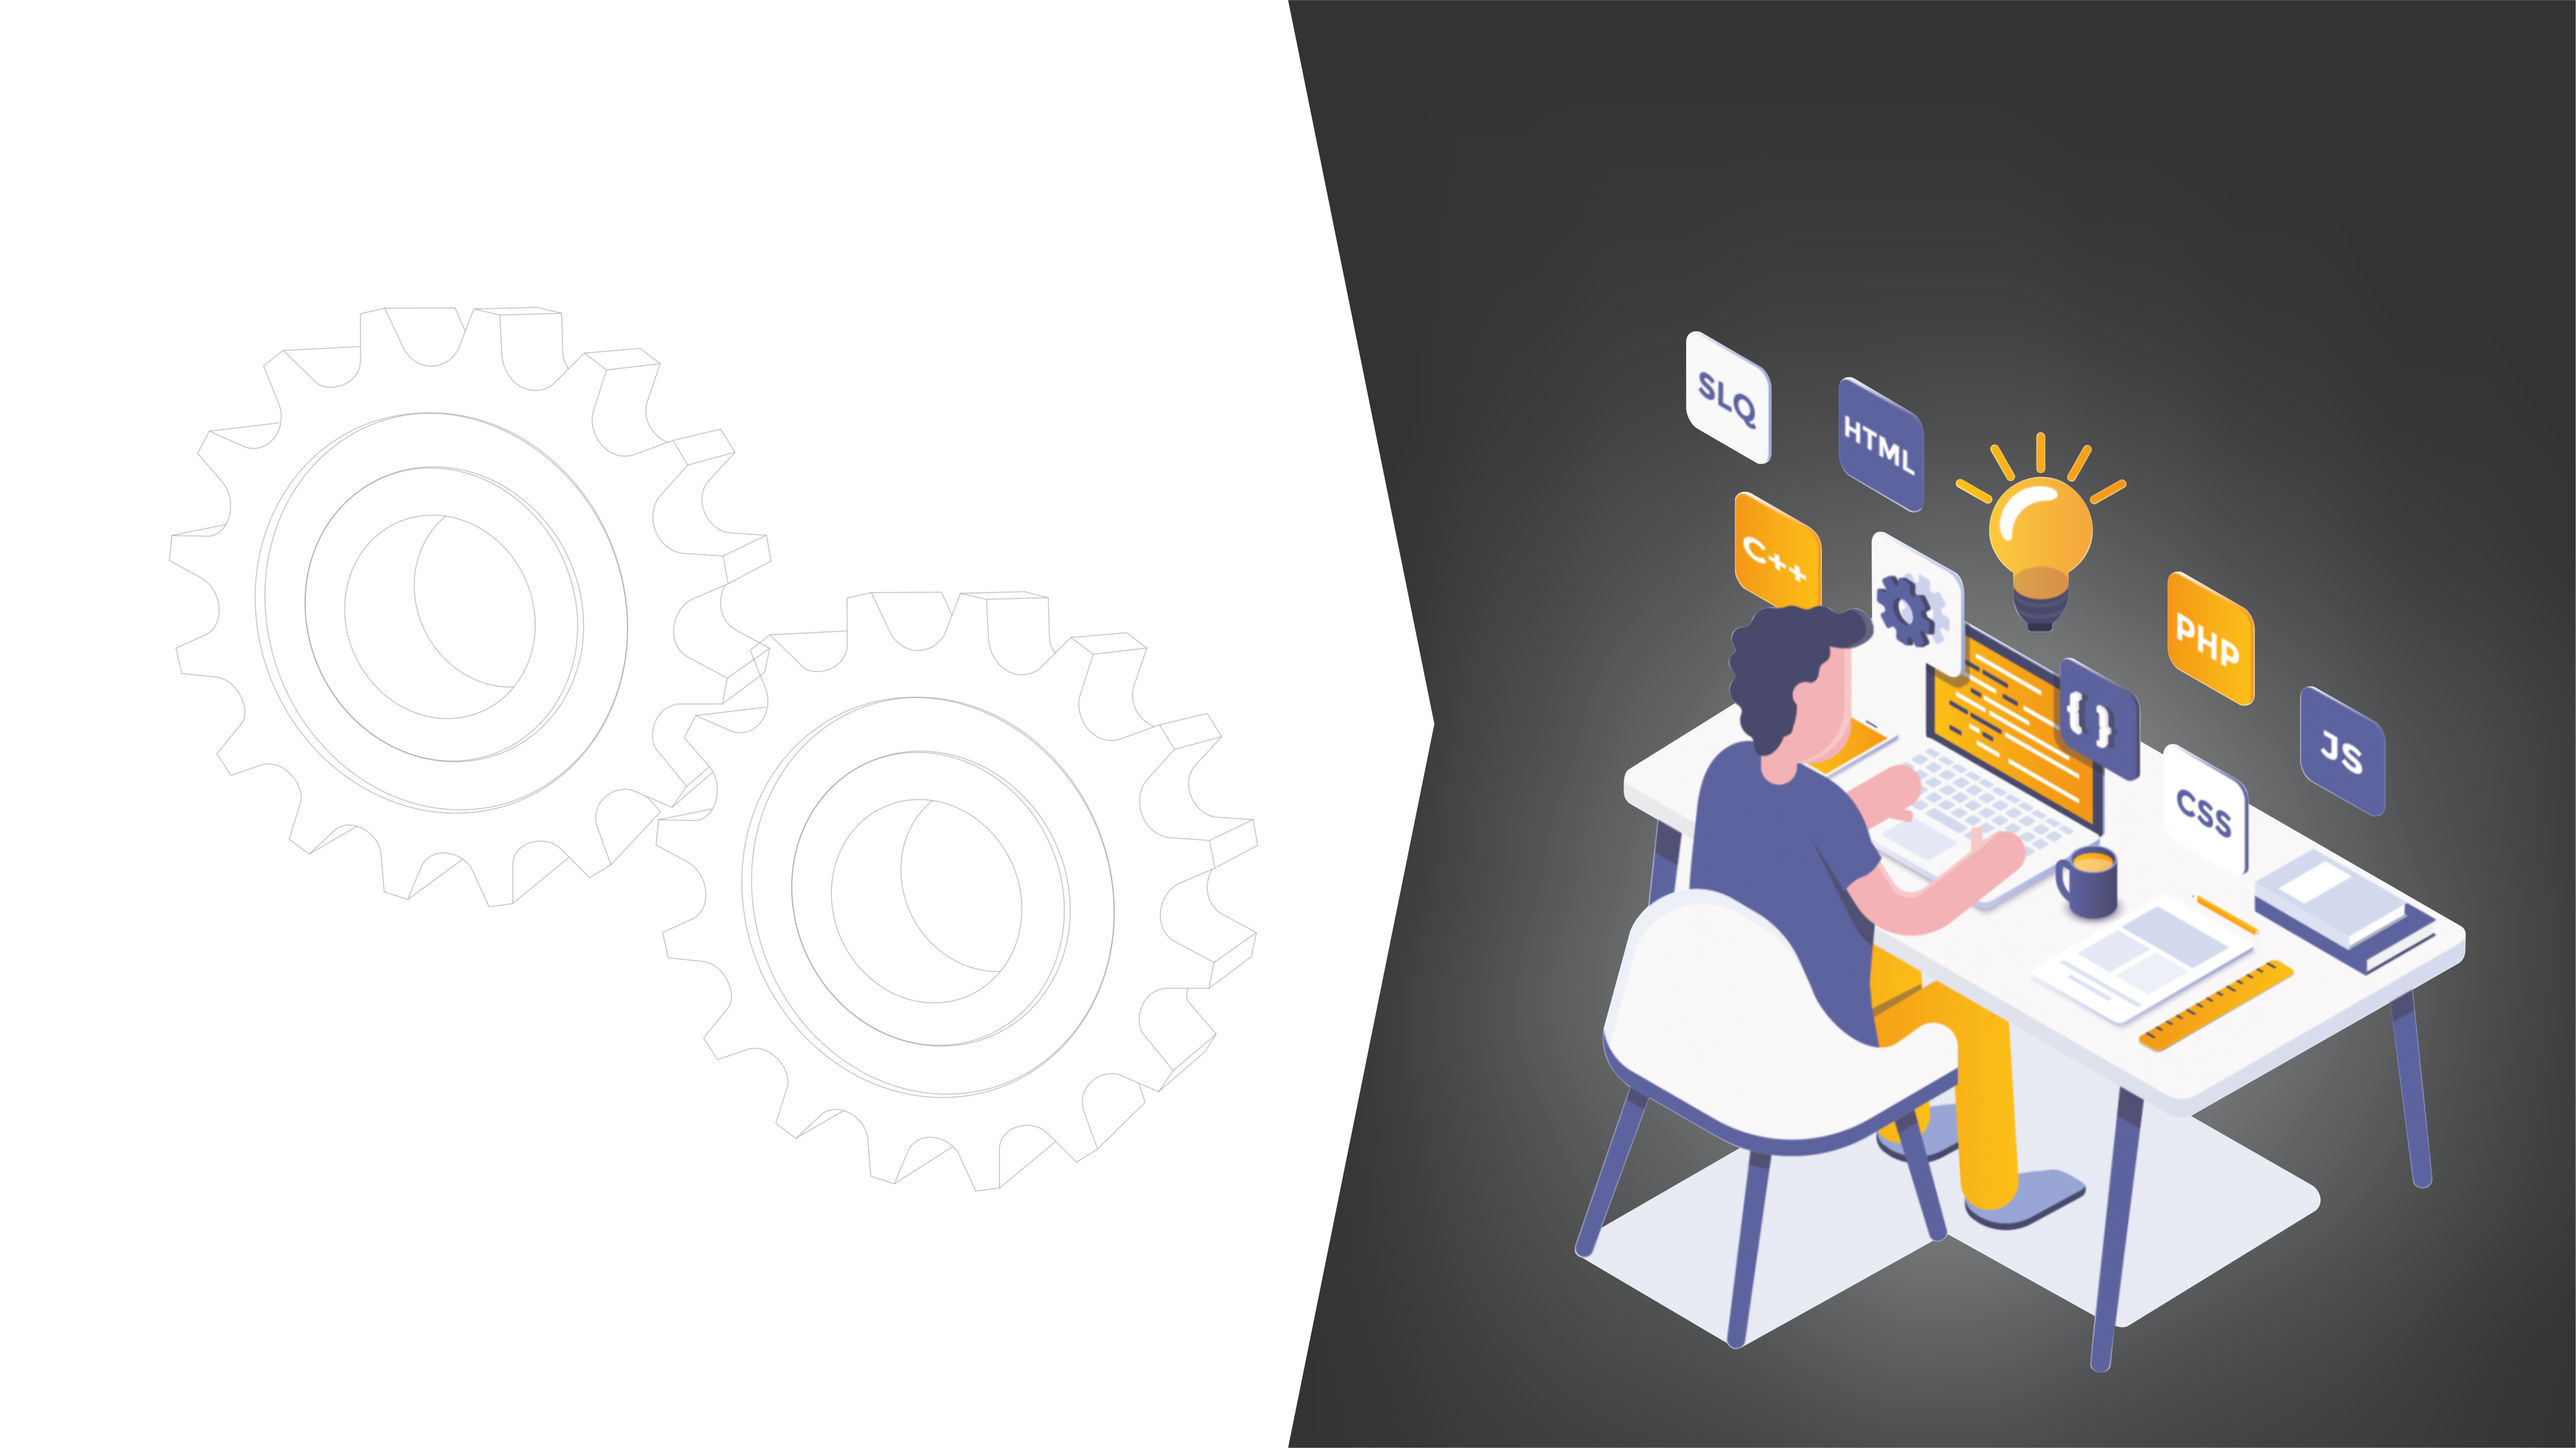
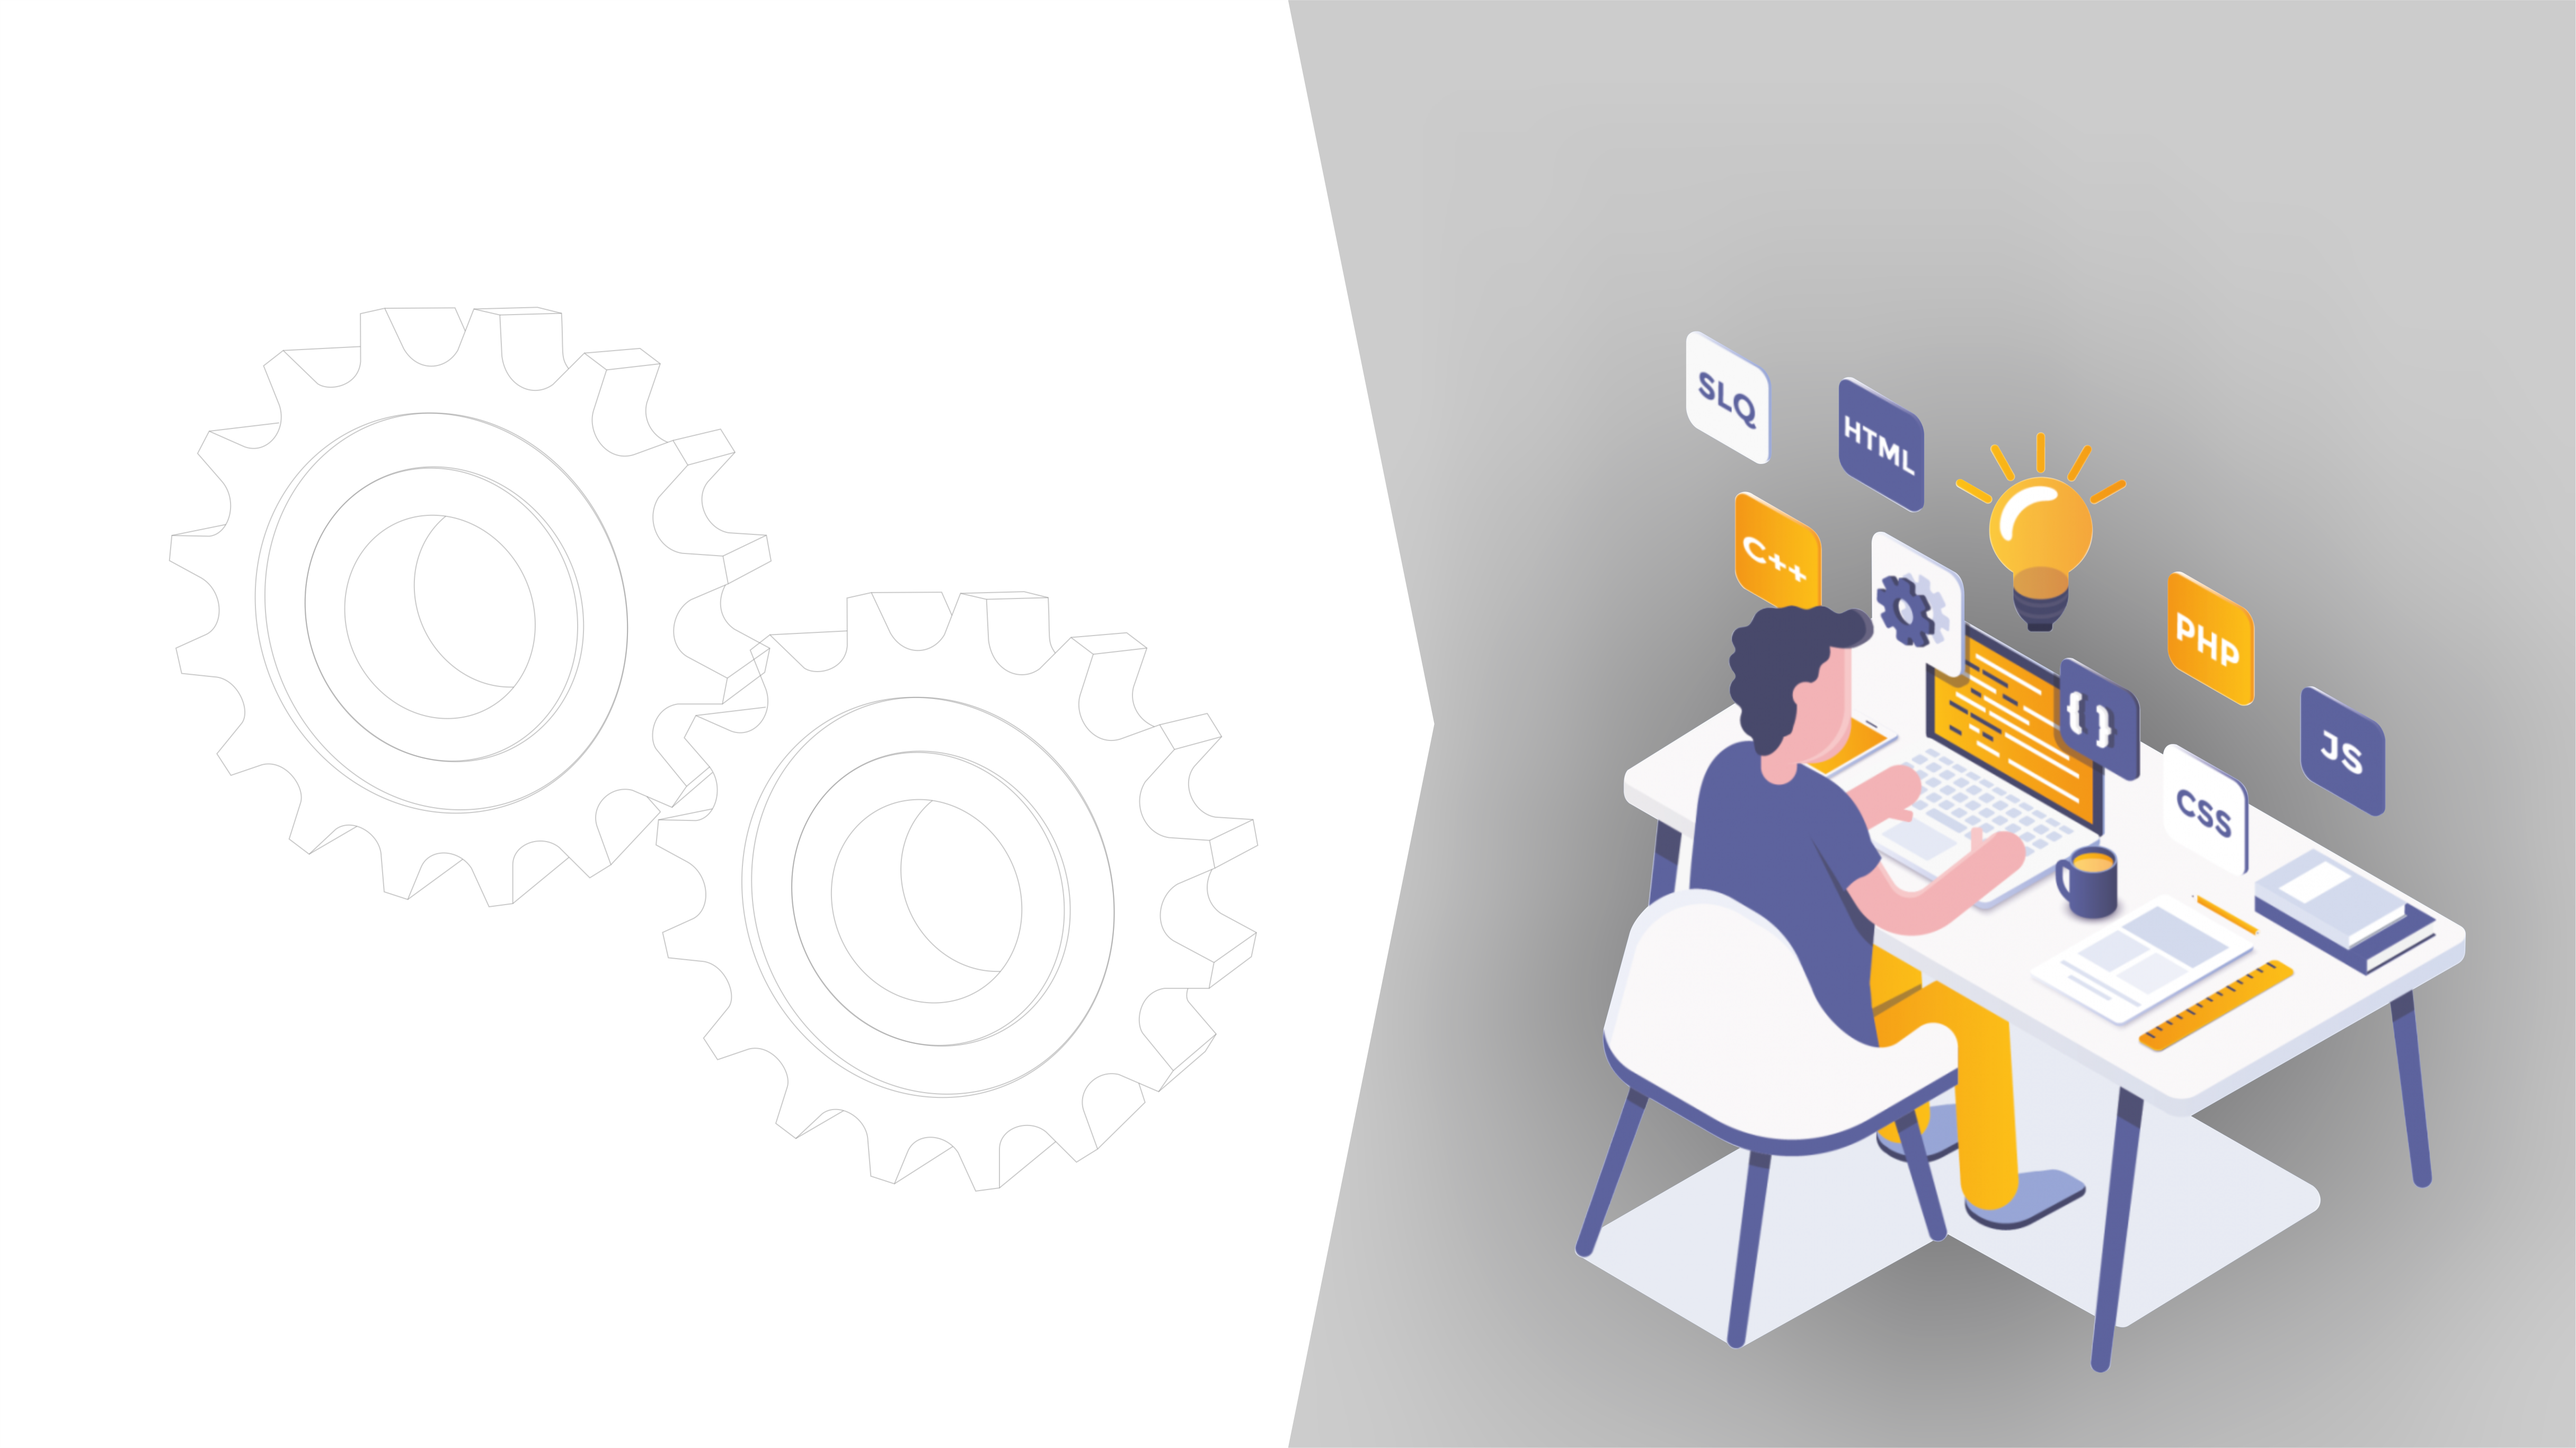
fix useContext, solve problem with change theme and language

diff --git a/public/index.html b/public/index.html
@@ -1,21 +1,22 @@
 <!DOCTYPE html>
 <html lang="en">
-  <head>
-    <meta charset="utf-8" />
-    <link rel="icon" href="%PUBLIC_URL%/favicon.ico" />
-    <meta name="viewport" content="width=device-width, initial-scale=1" />
-    <meta name="theme-color" content="#000000" />
-    <meta
-      name="description"
-      content="Web site created using create-react-app"
-    />
-    <link rel="apple-touch-icon" href="%PUBLIC_URL%/logo192.png" />
-    <!--
+
+<head>
+  <meta charset="utf-8" />
+  <link rel="icon" href="%PUBLIC_URL%/favicon.ico" />
+  <meta name="viewport" content="width=device-width, initial-scale=1" />
+  <meta name="theme-color" content="#000000" />
+  <meta name="description" content="Web site created using create-react-app" />
+  <link rel="apple-touch-icon" href="%PUBLIC_URL%/logo192.png" />
+  <style>
+    @import url('https://fonts.googleapis.com/css2?family=Roboto+Condensed:wght@400;700&display=swap');
+  </style>
+  <!--
       manifest.json provides metadata used when your web app is installed on a
       user's mobile device or desktop. See https://developers.google.com/web/fundamentals/web-app-manifest/
     -->
-    <link rel="manifest" href="%PUBLIC_URL%/manifest.json" />
-    <!--
+  <link rel="manifest" href="%PUBLIC_URL%/manifest.json" />
+  <!--
       Notice the use of %PUBLIC_URL% in the tags above.
       It will be replaced with the URL of the `public` folder during the build.
       Only files inside the `public` folder can be referenced from the HTML.
@@ -24,12 +25,13 @@
       work correctly both with client-side routing and a non-root public URL.
       Learn how to configure a non-root public URL by running `npm run build`.
     -->
-    <title>React App</title>
-  </head>
-  <body>
-    <noscript>You need to enable JavaScript to run this app.</noscript>
-    <div id="root"></div>
-    <!--
+  <title>React App</title>
+</head>
+
+<body>
+  <noscript>You need to enable JavaScript to run this app.</noscript>
+  <div id="root"></div>
+  <!--
       This HTML file is a template.
       If you open it directly in the browser, you will see an empty page.
 
@@ -39,5 +41,6 @@
       To begin the development, run `npm start` or `yarn start`.
       To create a production bundle, use `npm run build` or `yarn build`.
     -->
-  </body>
+</body>
+
 </html>

diff --git a/src/components/Navbar.tsx b/src/components/Navbar.tsx
@@ -1,13 +1,38 @@
-import React from 'react';
+import React, { useState, useContext} from 'react';
+import texts from '../languages/texts';
+import styles from './Navbar.module.css';
+import ThemeContext from '../contexts/ThemeContext';
 
 
-export default function Navbar() {
+export default function Navbar(props: { switchTheme: { (): void }, switchLanguage: { (): void } }) {
+
+  const [language, setLanguage] = useState<string>('spanish')
+  
+  const theme = useContext(ThemeContext);
+  const isLight = theme[0] == 'light';
+
+  const onClick = () => {
+    props.switchTheme();
+  }
+  const onChange = (e: any) => {
+    setLanguage(e.target.value);
+    props.switchLanguage();
+  }
   return (
-    <div>
-      <p>Inicio</p>
-      <p>Tecnologias</p>
-      <p>Sobre mi</p>
-      <p>Contacto</p>
+    <div className={styles.navbar}>
+      <div className={isLight?styles.options_light:styles.options_dark}>
+        <p>{(texts as any)[language].navbar[0]}</p>
+        <p>{(texts as any)[language].navbar[1]}</p>
+        <p>{(texts as any)[language].navbar[2]}</p>
+        <p>{(texts as any)[language].navbar[3]}</p>
+      </div>
+      <div className={styles.buttonGroup}>
+        <button onClick={onClick}>Switch theme</button>
+        <select value={language} onChange={onChange}>
+          <option value='spanish'>Español</option>
+          <option value='english'>English</option>
+        </select>
+      </div>
     </div>
   )
 }

diff --git a/src/components/Home.tsx b/src/components/Home.tsx
@@ -1,23 +1,23 @@
-import React, { Fragment, useContext } from 'react';
+import React, { Fragment, useContext, useState } from 'react';
+import ThemeContext from '../contexts/ThemeContext';
 import styles from './Home.module.css';
+import texts from '../languages/texts';
 
-interface HomeProps {
-  state: any;
-  setState: Function;
-}
+// interface HomeProps{
+//   switchTheme:{():void}
+// }
 
-export default function Home(props:HomeProps) {
-  
-  const {state, setState} = props;
-  const onClick = ()=>{
-    setState({...state, theme: state.theme?false:true})
-  }
+export default function Home() {
+  const theme = useContext(ThemeContext);
+  const isLight = theme[0] == 'light';
+
   return (
     <Fragment>
-      <div className={state.theme?styles.container_light:styles.container_dark}>
-        <h1 className={state.theme?styles.name_light:styles.name_dark}>Martin<br />Angulo Gasco</h1>
-        <h3 className={state.theme?styles.tittle_light:styles.tittle_dark}>Desarrollador React.js & Node.js</h3>
-        <button onClick={onClick}>Change</button>
+      <div className={isLight ? styles.container_light : styles.container_dark}>
+        <div>
+          <h1 className={isLight ? styles.name_light : styles.name_dark}>Martin<br />Angulo Gasco</h1>
+          <h3 className={isLight ? styles.tittle_light : styles.tittle_dark}>Desarrollador React.js & Node.js</h3>
+        </div>
       </div>
     </Fragment>
   )

diff --git a/src/components/Home.module.css b/src/components/Home.module.css
@@ -1,28 +1,52 @@
-.container_light {
+.container_dark {
+    display: flex;
+    align-items: center;
     background-image: url('../img//porfolio.png');
     background-size: cover;
     background-repeat: no-repeat;
     height: 100vh;
-    width: 100vw;
+    width: 95vw;
+    top:0;
+    padding-left: 5vw;
 }
-.container_dark {
+.container_light {
+    display: flex;
+    align-items: center;
     background-image: url('../img//porfolio-dark.png');
     background-size: cover;
     background-repeat: no-repeat;
     height: 100vh;
-    width: 100vw;
+    width: 95vw;
+    top:0;
+    padding-left: 5vw;
 }
 
 .name_light {
-    color: white;
+    padding: 0;
+    margin: 0;
+    color: #5D639E;
+    font-family: 'Roboto Condensed';
+    font-weight: bold;
+    font-size: 3.5rem;
 }
 .name_dark {
-    color: black;
+    padding: 0;
+    margin: 0;
+    color: #5D639E;
+    font-family: 'Roboto Condensed';
+    font-weight: bold;
+    font-size: 3.5rem;
 }
 
 .tittle_light {
-    color: white;
+    padding: 0;
+    margin: 0;
+    color: #F59B17;
+    font-family: 'Roboto Condensed';
 }
 .tittle_dark {
-    color: black;
+    padding: 0;
+    margin: 0;
+    color: #F59B17;
+    font-family: 'Roboto Condensed';
 }

diff --git a/src/App.tsx b/src/App.tsx
@@ -3,24 +3,28 @@ import { Routes, Route } from 'react-router-dom';
 import Home from './components/Home';
 import Navbar from './components/Navbar';
 import Projects from './components/Projects';
+import ThemeContext from './contexts/ThemeContext';
 
 
 function App() {
 
-  const initialState = {
-    language: true,
-    theme: true,
-  };
-  const [state, setState] = useState(initialState)
+  const [theme, setTheme] = useState<string>('light');
+  const [language, setLanguage] = useState<string>('spanish');
+  const switchTheme = () => {
+    setTheme(theme => theme == 'light' ? 'dark' : 'light');
+  }
+  const switchLanguage = () => {
+    setLanguage(language => language== 'spanish' ? 'english' : 'spanish');
+  }
 
   return (
-    <>
-      <Navbar />
+    <ThemeContext.Provider value={[theme, language]}>
+      <Navbar switchTheme={switchTheme} switchLanguage={switchLanguage}/>
       <Routes>
-        <Route path='/' element={<Home state={state} setState={setState} />} />
+        <Route path='/' element={<Home />} />
         <Route path='/projects' element={<Projects />} />
       </Routes>
-      </>
+    </ThemeContext.Provider>
   );
 }
 

diff --git a/src/components/Navbar.module.css b/src/components/Navbar.module.css
@@ -1,0 +1,29 @@
+.navbar {
+    display: flex;
+    justify-content: flex-end;
+    gap: 3vw;
+    padding: 10px;
+    position: absolute;
+    top: 0;
+    right: 0;
+    background-color: transparent;
+    font-family: 'Roboto Condensed', sans-serif;
+}
+
+.options_dark {
+    display: flex;
+    gap: 3vw;
+    color: white;
+}
+.options_light {
+    display: flex;
+    gap: 3vw;
+    color: black;
+}
+
+.buttonGroup {
+    display: flex;
+    flex-direction: column;
+    font-family: system-ui, -apple-system, BlinkMacSystemFont, 'Segoe UI', Roboto, Oxygen, Ubuntu, Cantarell, 'Open Sans', 'Helvetica Neue', sans-serif;
+    margin: 10px;
+}

diff --git a/src/languages/texts.js b/src/languages/texts.js
@@ -1,0 +1,17 @@
+const data = {
+    spanish: {
+        name: 'Martin',
+        lastname: 'Angulo Gasco',
+        tittle: 'Desarrollador React.js & Node.js',
+        navbar: ['Inicio', 'Tecnologias', 'Sobre mi', 'Contacto'],
+
+    },
+    english: {
+        name: "I'm Martin",
+        lastname: 'Angulo Gasco',
+        tittle: 'React.js & Node.js Developer',
+        navbar: ['Home', 'Technologies', 'About', 'Contact'],
+    }
+};
+
+export default data;

diff --git a/src/contexts/ThemeContext.tsx b/src/contexts/ThemeContext.tsx
@@ -1,0 +1,4 @@
+import React from "react";
+
+const ThemeContext = React.createContext<Array<string>>(['light','spanish']);
+export default ThemeContext;

diff --git a/src/contexts/LanguageContext.tsx b/src/contexts/LanguageContext.tsx
@@ -1,0 +1,4 @@
+import React from "react";
+
+const LanguageContext = React.createContext<string>('spanish');
+export default LanguageContext;
